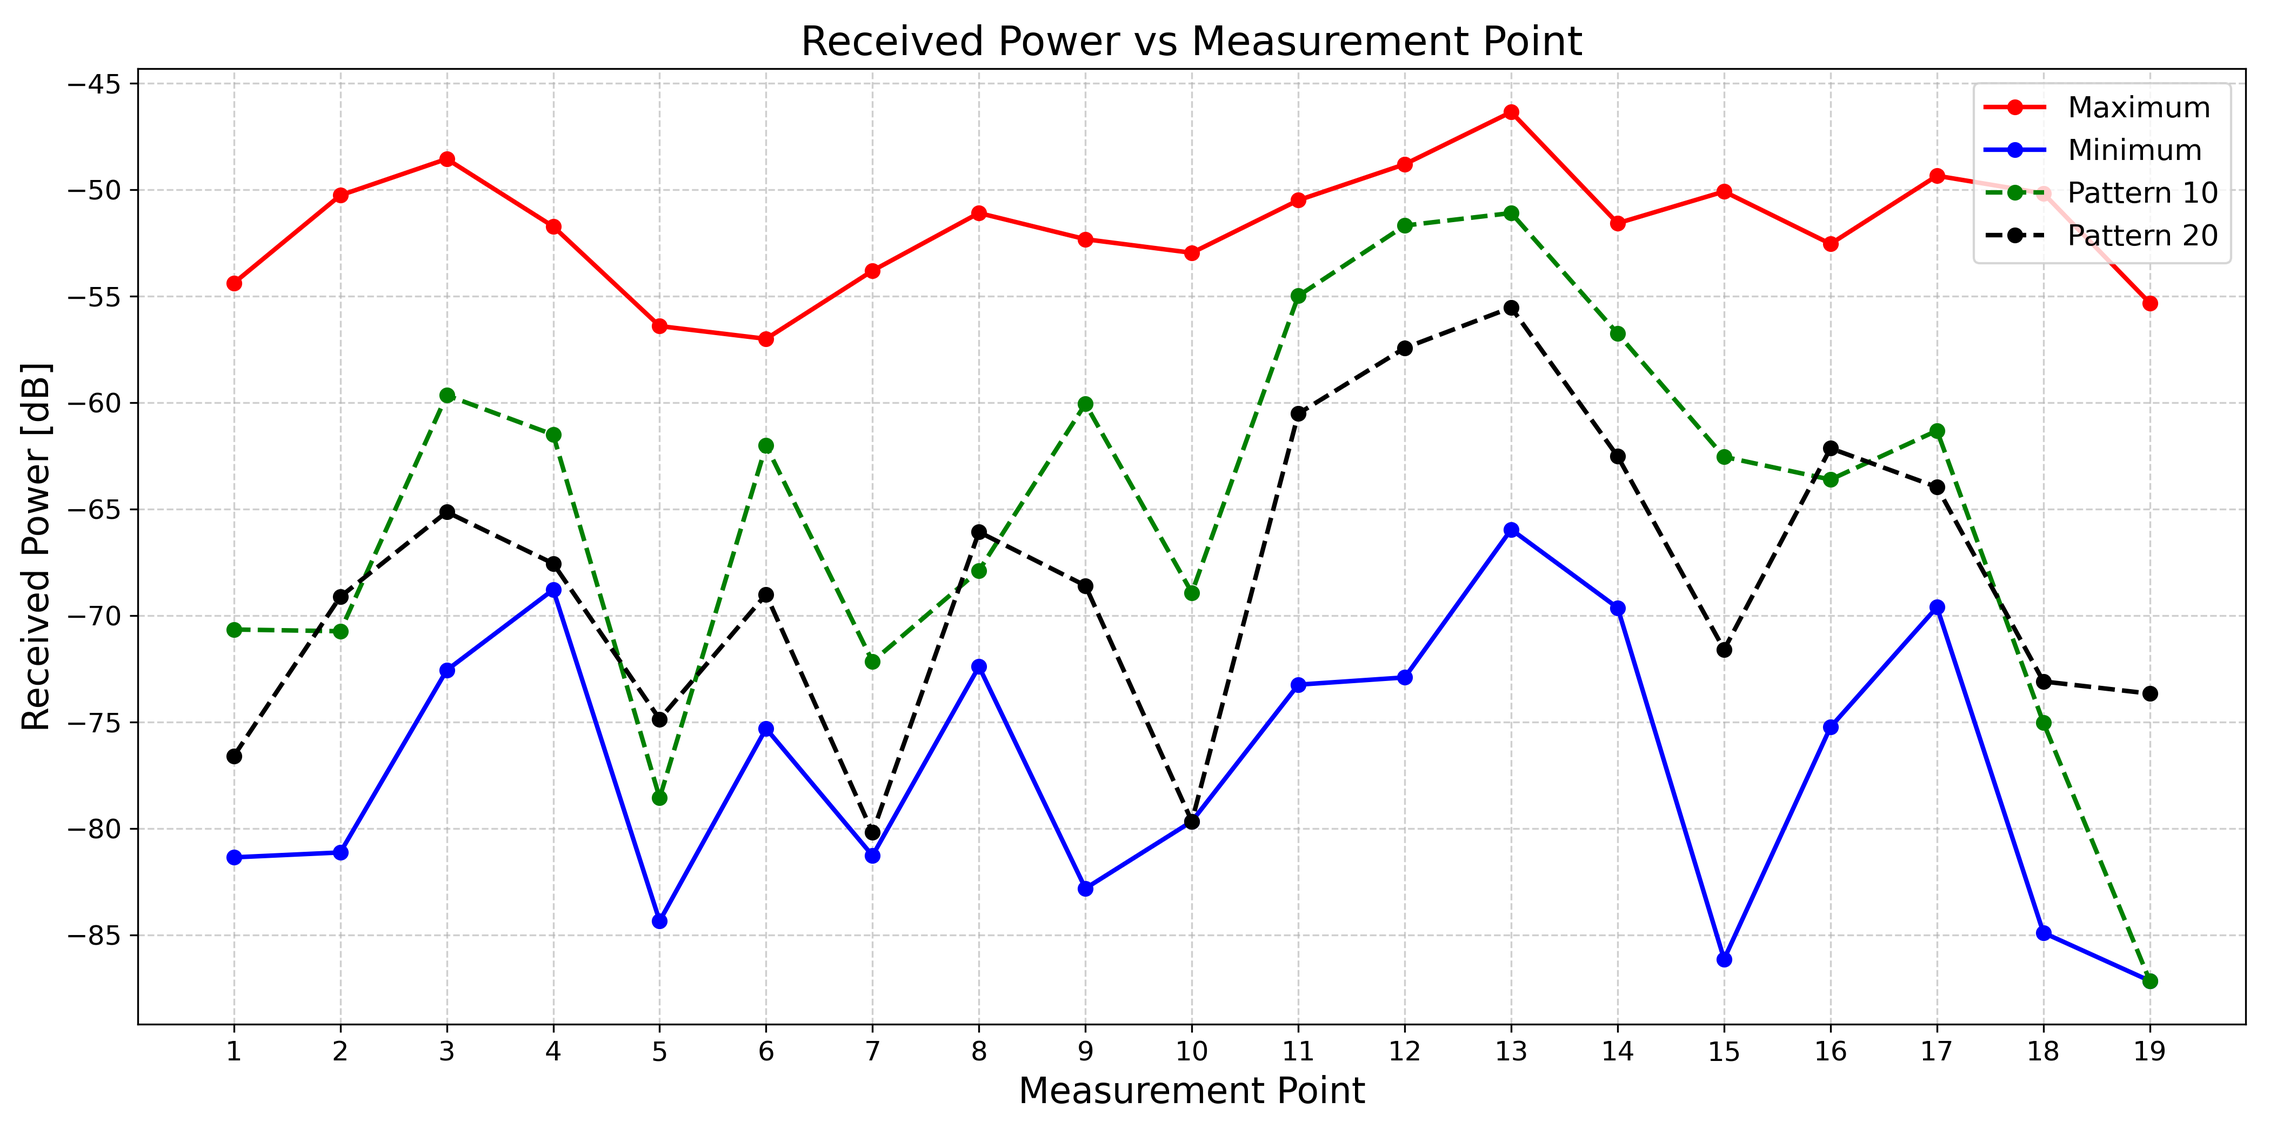
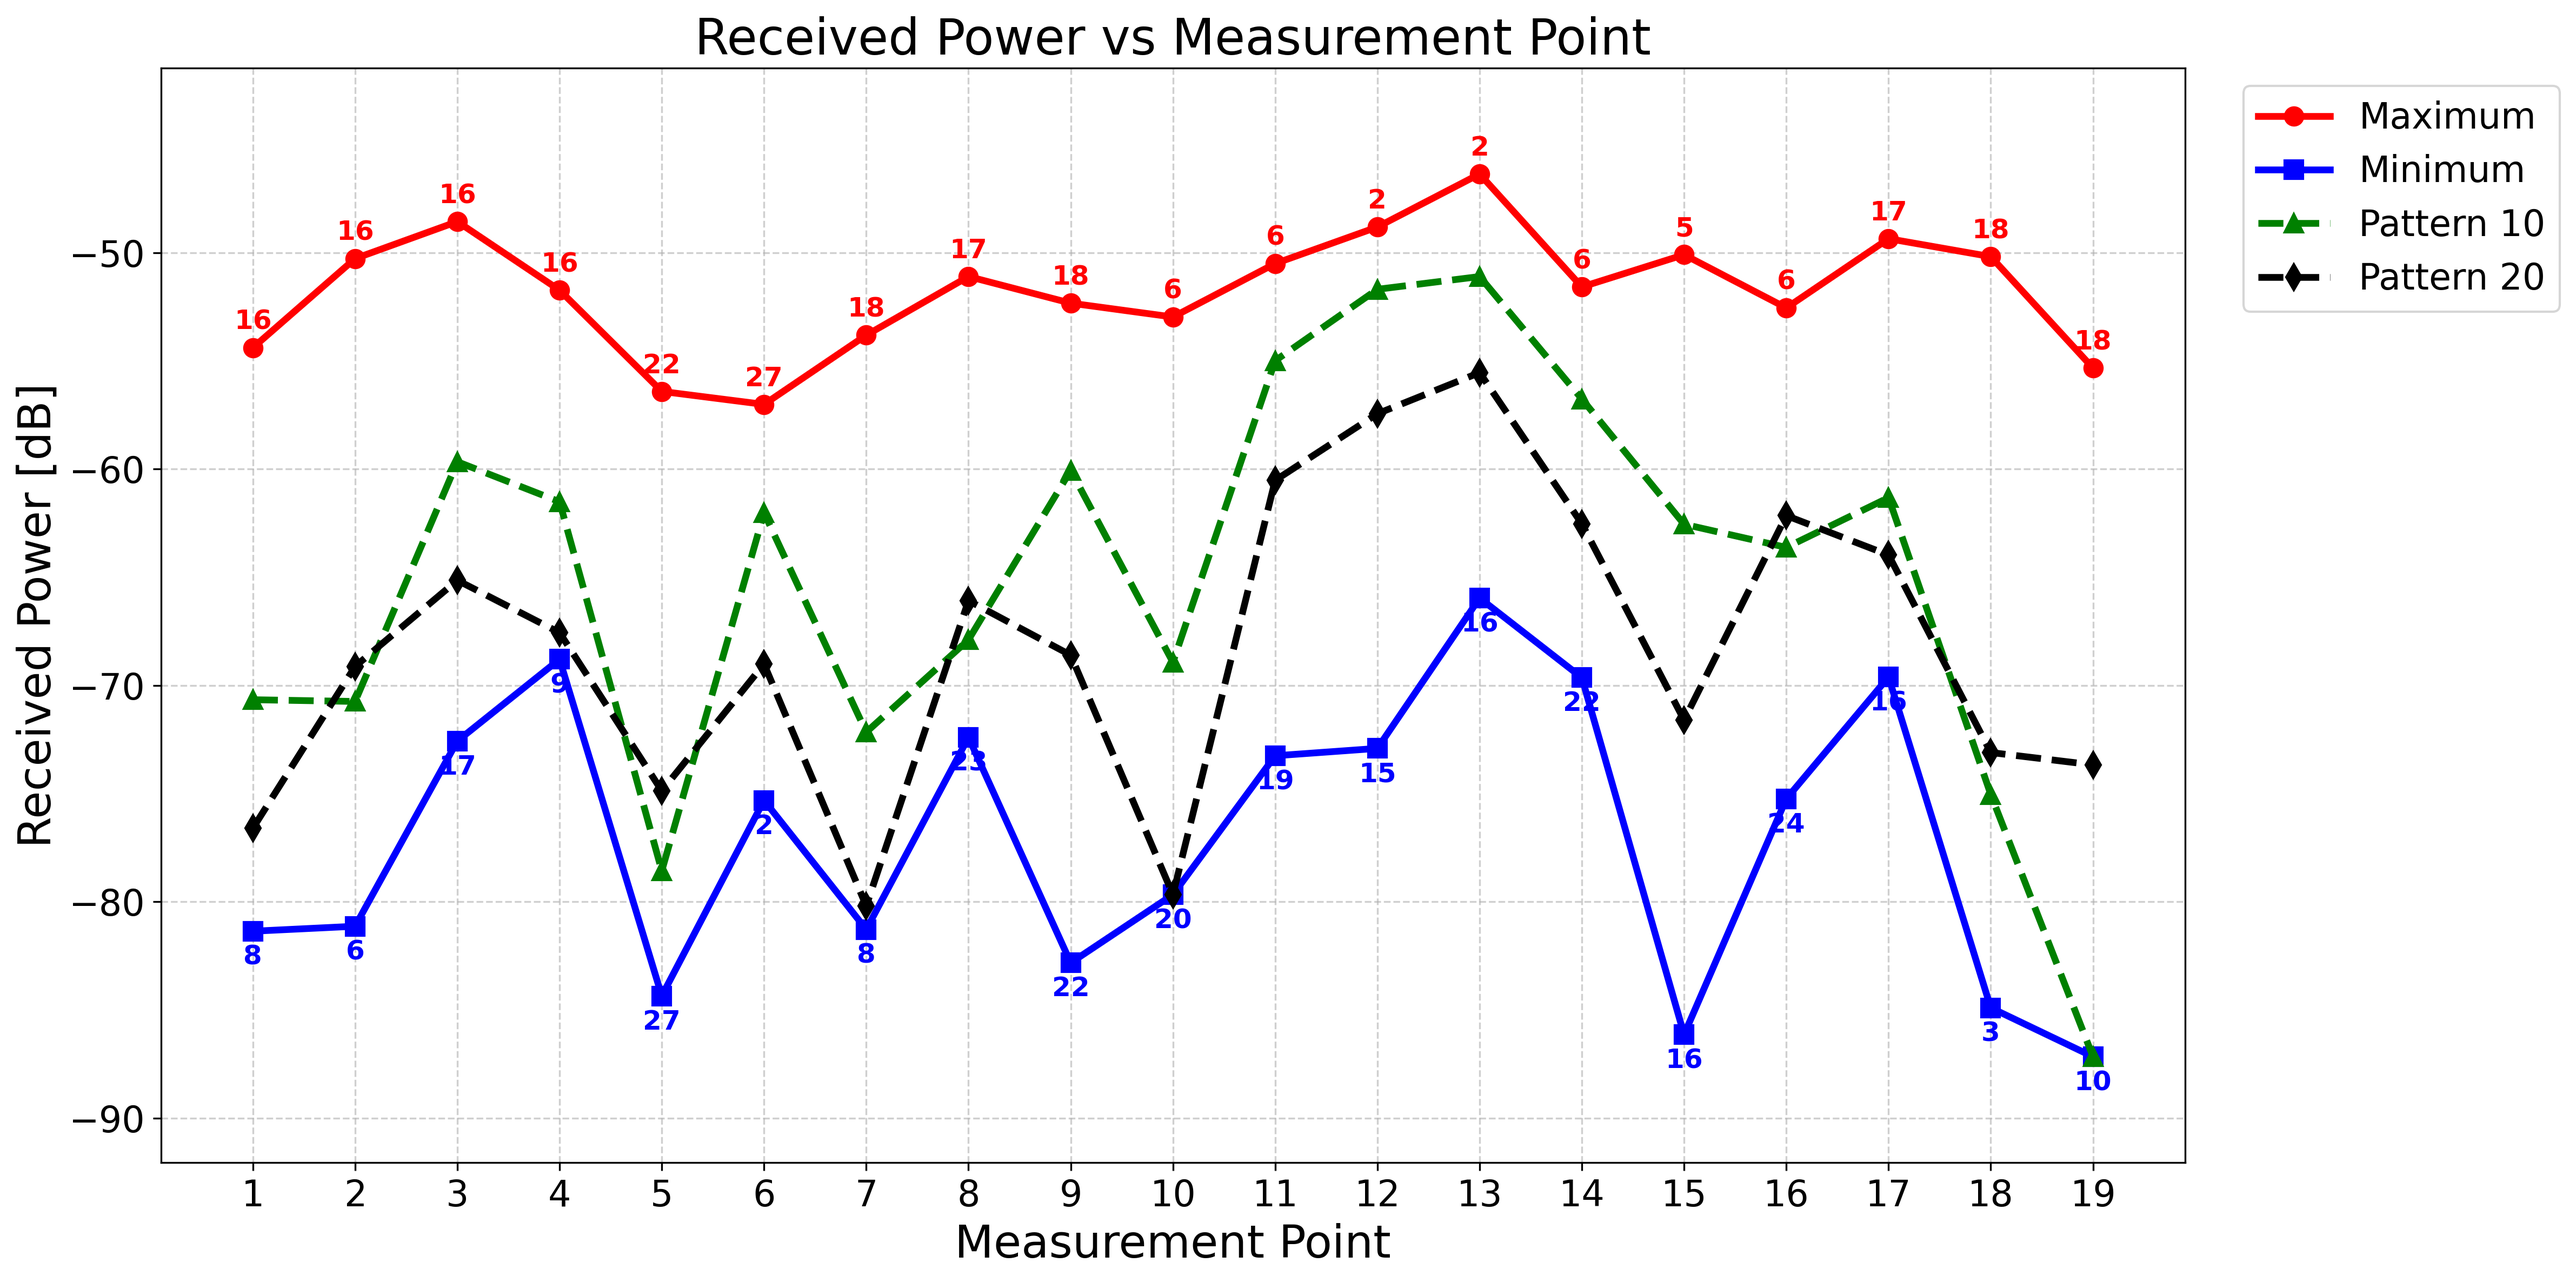
Wyniki 5 best avg

diff --git a/DANE_Z_POMIAROW/V2X_INFOCOM2024_KRIT2025_ESWA/wyniki_jeden_RIS/ESWA_with_5_best.py b/DANE_Z_POMIAROW/V2X_INFOCOM2024_KRIT2025_ESWA/wyniki_jeden_RIS/ESWA_with_5_best.py
@@ -1,0 +1,225 @@
+import os
+import pandas as pd
+import matplotlib.pyplot as plt
+import re
+
+# =========================
+# CONFIG
+# =========================
+input_folder = "jeden_ris_wyniki"
+output_folder = "jeden_ris_wyniki"
+
+POINT_MIN = 4
+POINT_MAX = 22
+TOP_K_1 = 7  # mniejszy set
+TOP_K_2 = 10  # większy set
+
+os.makedirs(output_folder, exist_ok=True)
+
+
+# =========================
+# HELPERS
+# =========================
+def extract_point_number(file_name):
+    m = re.search(r"_(\d+)\.csv$", file_name)
+    return int(m.group(1)) if m else None
+
+
+def compute_best_of_topk(data, pattern_mean, top_k, points):
+    """Oblicza best-of-TOP-K dla danego K."""
+    top_patterns = pattern_mean.head(top_k).index.tolist()
+    topk_data = data[data["Pattern"].isin(top_patterns)]
+    idx_topk = topk_data.groupby("Point")["Power"].idxmax()
+    topk_vals = topk_data.loc[idx_topk]
+    power = topk_vals.set_index("Point")["Power"].reindex(points)
+    patterns = topk_vals.set_index("Point")["Pattern"].reindex(points)
+    return power, patterns, top_patterns
+
+
+# =========================
+# LOAD DATA
+# =========================
+def load_all_points(folder):
+    rows = []
+    for f in sorted(os.listdir(folder)):
+        if not f.endswith(".csv"):
+            continue
+
+        pt = extract_point_number(f)
+        if pt is None:
+            continue
+
+        df = pd.read_csv(
+            os.path.join(folder, f),
+            sep=";",
+            header=None,
+            names=["Pattern", "Timestamp", "Frequency", "Power"],
+        )
+        df["Point"] = pt
+        rows.append(df)
+
+    return pd.concat(rows, ignore_index=True)
+
+
+# =========================
+# MAIN
+# =========================
+data = load_all_points(input_folder)
+
+# --- punkty 4–22 ---
+data = data[data["Point"].between(POINT_MIN, POINT_MAX)]
+
+# --- przenumerowanie 4–22 → 1–19 ---
+old_points = sorted(data["Point"].unique())
+point_map = {old: new for new, old in enumerate(old_points, start=1)}
+data["Point"] = data["Point"].map(point_map)
+
+points = sorted(data["Point"].unique())
+
+# =========================
+# GLOBAL MAX (27)
+# =========================
+idx_max = data.groupby("Point")["Power"].idxmax()
+max_vals = data.loc[idx_max]
+
+global_max = max_vals.set_index("Point")["Power"].reindex(points)
+global_max_patterns = max_vals.set_index("Point")["Pattern"].reindex(points)
+
+# =========================
+# TOP-K BY AVERAGE (ranking wzorców)
+# =========================
+pattern_mean = data.groupby("Pattern")["Power"].mean().sort_values(ascending=False)
+
+# --- TOP-K_1 (mniejszy set, np. 5) ---
+best_of_topk1, patterns_topk1, top_patterns_1 = compute_best_of_topk(
+    data, pattern_mean, TOP_K_1, points
+)
+print(f"TOP-{TOP_K_1} patterns: {top_patterns_1}")
+
+# --- TOP-K_2 (większy set, np. 15) ---
+best_of_topk2, patterns_topk2, top_patterns_2 = compute_best_of_topk(
+    data, pattern_mean, TOP_K_2, points
+)
+print(f"TOP-{TOP_K_2} patterns: {top_patterns_2}")
+
+# =========================
+# PLOT
+# =========================
+plt.figure(figsize=(16, 8))
+plt.xticks(points, fontsize=16)
+plt.yticks(fontsize=16)
+
+# Global Maximum
+plt.plot(
+    points,
+    global_max,
+    "o-",
+    color="red",
+    linewidth=3,
+    markersize=8,
+    label="Maximum (27 patterns)",
+)
+
+# Best of TOP-K_2 (większy set)
+plt.plot(
+    points,
+    best_of_topk2,
+    "s--",
+    color="blue",
+    linewidth=3,
+    markersize=8,
+    label=f"Best of TOP-{TOP_K_2} avg patterns",
+)
+
+# Best of TOP-K_1 (mniejszy set)
+plt.plot(
+    points,
+    best_of_topk1,
+    "^:",
+    color="green",
+    linewidth=3,
+    markersize=8,
+    label=f"Best of TOP-{TOP_K_1} avg patterns",
+)
+
+# =========================
+# ANNOTACJE (NUMERY WZORCÓW) z clip_on
+# =========================
+# Pobierz granice Y dla ograniczenia etykiet
+y_min = min(global_max.min(), best_of_topk1.min(), best_of_topk2.min())
+y_max = max(global_max.max(), best_of_topk1.max(), best_of_topk2.max())
+y_margin = (y_max - y_min) * 0.15  # 15% marginesu
+
+ax = plt.gca()
+
+for x in points:
+    # MAX (czerwony, nad punktem)
+    y_pos_max = global_max.loc[x] + 0.6
+    # Ogranicz do górnej granicy
+    y_pos_max = min(y_pos_max, y_max + y_margin - 0.3)
+    ax.annotate(
+        f"{int(global_max_patterns.loc[x])}",
+        xy=(x, global_max.loc[x]),
+        xytext=(x, y_pos_max),
+        color="red",
+        fontsize=11,
+        fontweight="bold",
+        ha="center",
+        va="bottom",
+        annotation_clip=True,
+    )
+
+    # TOP-K_2 (niebieski, lekko poniżej)
+    y_pos_k2 = best_of_topk2.loc[x] - 0.4
+    y_pos_k2 = max(y_pos_k2, y_min - y_margin + 0.5)
+    ax.annotate(
+        f"{int(patterns_topk2.loc[x])}",
+        xy=(x, best_of_topk2.loc[x]),
+        xytext=(x, y_pos_k2),
+        color="blue",
+        fontsize=10,
+        ha="center",
+        va="top",
+        annotation_clip=True,
+    )
+
+    # TOP-K_1 (zielony, jeszcze niżej)
+    y_pos_k1 = best_of_topk1.loc[x] - 1.0
+    y_pos_k1 = max(y_pos_k1, y_min - y_margin + 0.2)
+    ax.annotate(
+        f"{int(patterns_topk1.loc[x])}",
+        xy=(x, best_of_topk1.loc[x]),
+        xytext=(x, y_pos_k1),
+        color="green",
+        fontsize=10,
+        ha="center",
+        va="top",
+        annotation_clip=True,
+    )
+
+# =========================
+# STYLING
+# =========================
+# Ustaw limity Y z marginesem na etykiety
+plt.ylim(y_min - y_margin, y_max + y_margin)
+
+plt.xlabel("Measurement Point", fontsize=20)
+plt.ylabel("Received Power [dB]", fontsize=20)
+plt.title(
+    f"Received Power vs Measurement Point\n"
+    f"Global Maximum vs Best of TOP-{TOP_K_1} vs TOP-{TOP_K_2} Average Patterns",
+    fontsize=22,
+)
+
+plt.grid(True, linestyle="--", alpha=0.6)
+plt.legend(fontsize=16, loc="upper left", bbox_to_anchor=(1.02, 1))
+
+plt.tight_layout()
+
+out = os.path.join(
+    output_folder, f"Power_vs_Point_Max_vs_Top{TOP_K_1}_vs_Top{TOP_K_2}.png"
+)
+plt.savefig(out, dpi=300, bbox_inches="tight")
+plt.show()
+
+print(f"[OK] Wykres zapisany: {out}")

diff --git a/DANE_Z_POMIAROW/V2X_INFOCOM2024_KRIT2025_ESWA/wyniki_jeden_RIS/ESWA_scenario_A_results.py b/DANE_Z_POMIAROW/V2X_INFOCOM2024_KRIT2025_ESWA/wyniki_jeden_RIS/ESWA_scenario_A_results.py
@@ -14,7 +14,6 @@ PATTERN_20 = 20
 
 os.makedirs(output_folder, exist_ok=True)
 
-
 # =========================
 # HELPERS
 # =========================
@@ -86,25 +85,32 @@ def generate_plot(data, output_folder):
     max_patterns = max_vals.set_index("Point")["Pattern"].reindex(points)
     min_patterns = min_vals.set_index("Point")["Pattern"].reindex(points)
 
-    p10 = (
-        data[data["Pattern"] == PATTERN_10].set_index("Point")["Power"].reindex(points)
-    )
-    p20 = (
-        data[data["Pattern"] == PATTERN_20].set_index("Point")["Power"].reindex(points)
-    )
+    p10 = data[data["Pattern"] == PATTERN_10].set_index("Point")["Power"].reindex(points)
+    p20 = data[data["Pattern"] == PATTERN_20].set_index("Point")["Power"].reindex(points)
 
-    plt.figure(figsize=(14, 7))
-    plt.xticks(points, fontsize=12)
-    plt.yticks(fontsize=12)
+    plt.figure(figsize=(15, 8))
 
-    plt.plot(points, maximum, "o-", color="red", label="Maximum", linewidth=2)
-    plt.plot(points, minimum, "o-", color="blue", label="Minimum", linewidth=2)
-    plt.plot(points, p10, "o--", color="green", label="Pattern 10", linewidth=2)
-    plt.plot(points, p20, "o--", color="black", label="Pattern 20", linewidth=2)
+    # ===== osie =====
+    plt.xticks(points, fontsize=15)
+    plt.yticks(fontsize=15)
 
+    # ===== krzywe =====
+    plt.plot(points, maximum, "o-", color="red",
+             label="Maximum", linewidth=3, markersize=7)
+
+    plt.plot(points, minimum, "o-", color="blue",
+             label="Minimum", linewidth=3, markersize=7)
+
+    plt.plot(points, p10, "o--", color="green",
+             label="Pattern 10", linewidth=3, markersize=7)
+
+    plt.plot(points, p20, "o--", color="black",
+             label="Pattern 20", linewidth=3, markersize=7)
+
+    # ===== etykiety przy punktach =====
     for i, x in enumerate(points):
 
-        # ===== MAXIMUM =====
+        # --- MAX ---
         y = maximum.loc[x]
         pat = int(max_patterns.loc[x])
 
@@ -113,38 +119,56 @@ def generate_plot(data, output_folder):
 
         dy, va = label_offset_max(y_prev, y, y_next)
 
-        plt.text(x, y + dy, f"{pat}", color="red", fontsize=10, ha="center", va=va)
+        plt.text(
+            x, y + dy, f"{pat}",
+            color="red", fontsize=13,
+            ha="center", va=va
+        )
 
-        # ===== MINIMUM =====
+        # --- MIN ---
         y = minimum.loc[x]
         pat = int(min_patterns.loc[x])
 
-        # 🔧 PROSTE, JASNE PRZESUNIĘCIA
         if x == 4:
-            dy, va = -1.2, "top"
+            dy, va = -1.5, "top"
         elif x == 10:
-            dy, va = -2.0, "top"
+            dy, va = -2.5, "top"
         elif x == 14:
-            dy, va = 1.2, "bottom"
+            dy, va = 1.5, "bottom"
         else:
             y_prev = minimum.loc[points[i - 1]] if i > 0 else None
             y_next = minimum.loc[points[i + 1]] if i < len(points) - 1 else None
             dy, va = label_offset_min(y_prev, y, y_next)
 
-        plt.text(x, y + dy, f"{pat}", color="blue", fontsize=10, ha="center", va=va)
+        plt.text(
+            x, y + dy, f"{pat}",
+            color="blue", fontsize=13,
+            ha="center", va=va
+        )
 
-    plt.xlabel("Measurement Point", fontsize=16)
-    plt.ylabel("Received Power [dB]", fontsize=16)
-    plt.title("Received Power vs Measurement Point", fontsize=18)
+    # ===== opisy =====
+    plt.xlabel("Measurement Point", fontsize=20)
+    plt.ylabel("Received Power [dB]", fontsize=20)
+    plt.title("Received Power vs Measurement Point", fontsize=22)
 
     plt.grid(True, linestyle="--", alpha=0.6)
 
-    plt.legend(fontsize=13, loc="upper left", bbox_to_anchor=(1.02, 1))
+    # ===== legenda =====
+    legend = plt.legend(
+        fontsize=16,
+        loc="upper left",
+        bbox_to_anchor=(1.02, 1),
+        frameon=True
+    )
+
+    for line in legend.get_lines():
+        line.set_linewidth(3)
 
     plt.tight_layout()
 
     out = os.path.join(
-        output_folder, "Power_vs_Point_Max_Min_Pattern10_20_Annotated.png"
+        output_folder,
+        "Power_vs_Point_Max_Min_Pattern10_20_BIGFONTS.png"
     )
     plt.savefig(out, dpi=300, bbox_inches="tight")
     plt.show()
